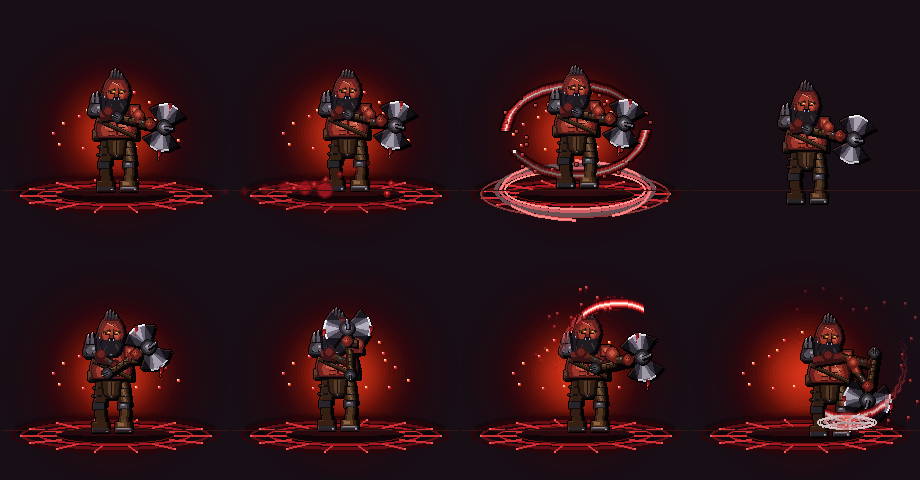
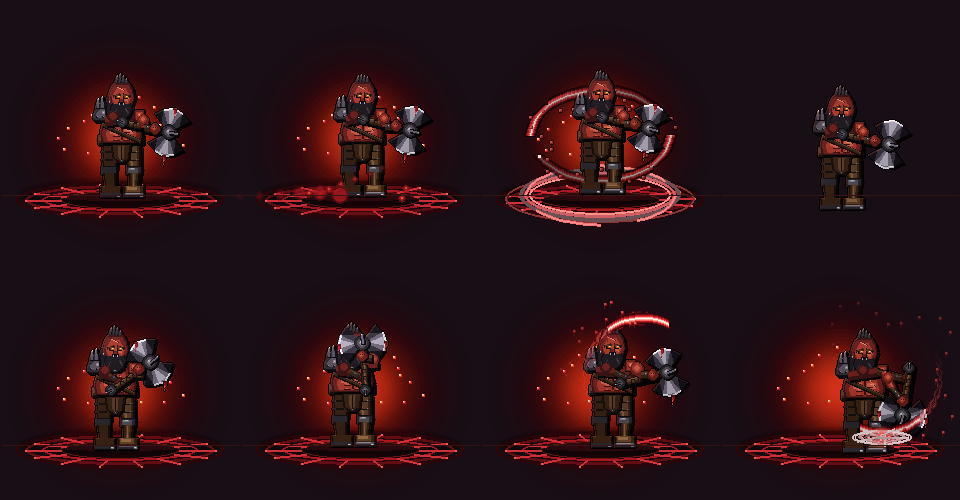
drakar: kaki polygon bervolume, tidak kurus lagi
Masalah: paha & betis pakai pygame.draw.line tipis -> terlihat kurus.

Perbaikan _draw_rig_legs:
- Paha: trapezoid tebal (TW=9 atas, KW=7 bawah) menggantikan line w=12
- Betis: trapezoid (CW=6 atas, AW=5 bawah) menggantikan line w=10
- Boot: lebar BW=9 (dari 8) + shadow offset lebih besar
- Pelindung lutut: diperlebar (17px -> dari 13px)
- Strap paha mengikuti lebar trapezoid (sw dinamis)
- Setiap segmen punya 3-4 layer warna: shadow/darkest/dark/mid/light
  → kaki terlihat bulat berotot seperti torso, bukan tiang persegi

diff --git a/bosses/level1.py b/bosses/level1.py
@@ -4297,17 +4297,13 @@ class _NS_drakar:
     # KAKI
     # ================================================================
     def _draw_rig_legs(surface, pt, f, phase, action, stride, detail):
-        """Kaki dari anchor (pinggul) — proporsi barbarian masif.
+        """Kaki dari anchor (pinggul) — POLYGON bervolume, bukan garis tipis.
+
+        Setiap segmen (paha, betis) digambar sebagai trapezoid tebal supaya
+        kaki terlihat berotot dan masif seperti torso, bukan tiang kurus.
 
         Layout vertikal (dy dari anchor):
-          Hip        : +6
-          Lutut      : +28   (paha 22px — kuat & berotot)
-          Ankle      : +46   (betis 18px)
-          Boot bawah : +56   (boot 10px — berat)
-          TOTAL      : 50px dari hip, 56px dari anchor
-
-        Torso (-4 s/d -36) = 32px | Kepala (-42 s/d -66) ≈ 24px
-        → kaki:torso:kepala ≈ 50%:29%:21% — barbarian masif, proporsional.
+          Hip   : +6    Lutut : +28    Ankle : +46    Boot : +56
         FEET_DY = 56.
         """
         P = _NS_drakar.PALETTE
@@ -4320,87 +4316,123 @@ class _NS_drakar:
 
         for side in ("back", "front"):
             is_front = (side == "front")
-
-            # Hip joint — sedikit terpisah
             hip_dx = 10 if is_front else -10
             hip_x, hip_y = pt(hip_dx, 6)
-
             swing = front_swing if is_front else back_swing
 
-            # Lutut — paha 22px
-            knee_x = int(hip_x + f * (3 if is_front else -2) + swing * 0.28)
-            knee_y = hip_y + 22
-
-            # Ankle — betis 18px
-            ankle_x = int(hip_x + f * (2 if is_front else -1) + swing * 0.48)
+            # Sendi utama
+            knee_x  = int(hip_x  + f * (3 if is_front else -2) + swing * 0.28)
+            knee_y  = hip_y  + 22
+            ankle_x = int(hip_x  + f * (2 if is_front else -1) + swing * 0.48)
             ankle_y = knee_y + 18
+            boot_x  = ankle_x
+            boot_y  = ankle_y
 
-            boot_x = ankle_x
-            boot_y = ankle_y
+            # Lebar separuh segmen (half-width)
+            TW = 9    # paha atas half-width
+            KW = 7    # paha bawah / lutut half-width
+            CW = 6    # betis atas half-width
+            AW = 5    # betis bawah / ankle half-width
 
-            # ── Paha (tebal berotot) ──
-            pygame.draw.line(surface, P["shadow_deep"],
-                             (hip_x+2, hip_y+2), (knee_x+2, knee_y+2), 13)
-            pygame.draw.line(surface, P["leather_darkest"],
-                             (hip_x, hip_y), (knee_x, knee_y), 12)
-            pygame.draw.line(surface, P["leather_dark"],
-                             (hip_x, hip_y), (knee_x, knee_y), 10)
+            # ── PAHA — trapezoid tebal ──────────────────────────────
+            # 4 titik: kiri-atas, kanan-atas, kanan-bawah, kiri-bawah
+            thigh_poly = [
+                (hip_x  - TW, hip_y  ),
+                (hip_x  + TW, hip_y  ),
+                (knee_x + KW, knee_y ),
+                (knee_x - KW, knee_y ),
+            ]
+            # Shadow offset
+            _NS_drakar._poly(surface, P["shadow_deep"],
+                             [(x+2, y+2) for x,y in thigh_poly])
+            _NS_drakar._poly(surface, P["leather_darkest"], thigh_poly)
+            # Mid tone (sedikit lebih kecil ke dalam)
+            _NS_drakar._poly(surface, P["leather_dark"], [
+                (hip_x  - TW+2, hip_y  ),
+                (hip_x  + TW-2, hip_y  ),
+                (knee_x + KW-2, knee_y ),
+                (knee_x - KW+2, knee_y ),
+            ])
             if is_front:
-                pygame.draw.line(surface, P["leather_mid"],
-                                 (hip_x, hip_y-1), (knee_x, knee_y-1), 6)
+                _NS_drakar._poly(surface, P["leather_mid"], [
+                    (hip_x  - TW+4, hip_y  ),
+                    (hip_x  + TW-4, hip_y  ),
+                    (knee_x + KW-4, knee_y ),
+                    (knee_x - KW+4, knee_y ),
+                ])
+                # Highlight sisi terang
                 pygame.draw.line(surface, P["leather_light"],
-                                 (hip_x, hip_y-2), (knee_x, knee_y-2), 2)
+                                 (hip_x - TW+5, hip_y+1),
+                                 (knee_x - KW+5, knee_y-1), 2)
 
             # Dua strap paha
             for strap_t in (0.30, 0.65):
-                sx = int(hip_x + (knee_x - hip_x) * strap_t)
-                sy = int(hip_y + (knee_y - hip_y) * strap_t)
-                pygame.draw.rect(surface, P["leather_darkest"], (sx-7, sy-1, 14, 2))
+                sx = int(hip_x  + (knee_x  - hip_x)  * strap_t)
+                sy = int(hip_y  + (knee_y  - hip_y)  * strap_t)
+                sw = int(TW + (KW - TW) * strap_t) + 1
+                pygame.draw.rect(surface, P["leather_darkest"], (sx-sw, sy-1, sw*2, 2))
                 if is_front:
-                    pygame.draw.rect(surface, P["leather_mid"], (sx-6, sy-1, 12, 1))
-                for stud_x in (sx-4, sx+3):
+                    pygame.draw.rect(surface, P["leather_mid"],  (sx-sw+1, sy-1, sw*2-2, 1))
+                for stud_x in (sx - sw + 2, sx + sw - 4):
                     pygame.draw.rect(surface, P["armor_dark"],  (stud_x, sy-1, 2, 2))
                     if is_front:
                         pygame.draw.rect(surface, P["armor_light"], (stud_x, sy-1, 1, 1))
 
-            # ── Pelindung lutut ──
-            pygame.draw.rect(surface, P["shadow_deep"],   (knee_x-6, knee_y-2, 13, 8))
-            pygame.draw.rect(surface, P["armor_darkest"], (knee_x-6, knee_y-2, 12, 8))
-            pygame.draw.rect(surface, P["armor_dark"],    (knee_x-5, knee_y-1, 10, 6))
+            # ── PELINDUNG LUTUT ──────────────────────────────────────
+            pygame.draw.rect(surface, P["shadow_deep"],   (knee_x-8,  knee_y-2, 17, 9))
+            pygame.draw.rect(surface, P["armor_darkest"], (knee_x-8,  knee_y-2, 16, 9))
+            pygame.draw.rect(surface, P["armor_dark"],    (knee_x-7,  knee_y-1, 14, 7))
             if is_front:
-                pygame.draw.rect(surface, P["armor_mid"], (knee_x-4, knee_y,    7, 4))
-                pygame.draw.rect(surface, P["armor_light"],(knee_x-3, knee_y,   4, 2))
-                pygame.draw.rect(surface, P["armor_shine"],(knee_x-2, knee_y,   2, 1))
+                pygame.draw.rect(surface, P["armor_mid"], (knee_x-6,  knee_y,   10, 5))
+                pygame.draw.rect(surface, P["armor_light"],(knee_x-5, knee_y,    6, 2))
+                pygame.draw.rect(surface, P["armor_shine"],(knee_x-3, knee_y,    3, 1))
 
-            # ── Betis ──
-            pygame.draw.line(surface, P["shadow_deep"],
-                             (knee_x+2, knee_y+6), (ankle_x+2, ankle_y+2), 11)
-            pygame.draw.line(surface, P["leather_darkest"],
-                             (knee_x, knee_y+6), (ankle_x, ankle_y), 10)
-            pygame.draw.line(surface, P["leather_dark"],
-                             (knee_x, knee_y+6), (ankle_x, ankle_y), 8)
+            # ── BETIS — trapezoid ────────────────────────────────────
+            calf_poly = [
+                (knee_x  - CW, knee_y  + 5),
+                (knee_x  + CW, knee_y  + 5),
+                (ankle_x + AW, ankle_y    ),
+                (ankle_x - AW, ankle_y    ),
+            ]
+            _NS_drakar._poly(surface, P["shadow_deep"],
+                             [(x+2, y+2) for x,y in calf_poly])
+            _NS_drakar._poly(surface, P["leather_darkest"], calf_poly)
+            _NS_drakar._poly(surface, P["leather_dark"], [
+                (knee_x  - CW+2, knee_y  + 5),
+                (knee_x  + CW-2, knee_y  + 5),
+                (ankle_x + AW-2, ankle_y    ),
+                (ankle_x - AW+2, ankle_y    ),
+            ])
             if is_front:
-                pygame.draw.line(surface, P["leather_mid"],
-                                 (knee_x, knee_y+5), (ankle_x, ankle_y-1), 5)
+                _NS_drakar._poly(surface, P["leather_mid"], [
+                    (knee_x  - CW+4, knee_y  + 5),
+                    (knee_x  + CW-4, knee_y  + 5),
+                    (ankle_x + AW-4, ankle_y    ),
+                    (ankle_x - AW+4, ankle_y    ),
+                ])
+                pygame.draw.line(surface, P["leather_light"],
+                                 (knee_x - CW+5, knee_y + 6),
+                                 (ankle_x - AW+5, ankle_y - 1), 1)
 
-            # ── Boot berat ──
-            pygame.draw.rect(surface, P["shadow_deep"],       (boot_x-8, boot_y, 18, 11))
-            pygame.draw.rect(surface, P["leather_darkest"],   (boot_x-8, boot_y, 17, 10))
-            pygame.draw.rect(surface, P["leather_dark"],      (boot_x-7, boot_y, 14,  9))
+            # ── BOOT BERAT ──────────────────────────────────────────
+            BW = 9   # half-width boot
+            pygame.draw.rect(surface, P["shadow_deep"],     (boot_x-BW-1, boot_y, BW*2+4, 12))
+            pygame.draw.rect(surface, P["leather_darkest"], (boot_x-BW,   boot_y, BW*2+2, 11))
+            pygame.draw.rect(surface, P["leather_dark"],    (boot_x-BW+1, boot_y, BW*2,   10))
             if is_front:
-                pygame.draw.rect(surface, P["leather_mid"],   (boot_x-6, boot_y, 10,  5))
-                pygame.draw.rect(surface, P["leather_light"], (boot_x-5, boot_y+1, 6,  3))
-            # Pelat logam
-            pygame.draw.rect(surface, P["armor_darkest"],     (boot_x-8, boot_y+6, 18, 5))
-            pygame.draw.rect(surface, P["armor_dark"],        (boot_x-8, boot_y+6, 17, 4))
+                pygame.draw.rect(surface, P["leather_mid"],   (boot_x-BW+2, boot_y, BW*2-4,  6))
+                pygame.draw.rect(surface, P["leather_light"], (boot_x-BW+3, boot_y+1, BW*2-8, 3))
+            # Pelat logam boot
+            pygame.draw.rect(surface, P["armor_darkest"],   (boot_x-BW-1, boot_y+7, BW*2+4, 5))
+            pygame.draw.rect(surface, P["armor_dark"],      (boot_x-BW,   boot_y+7, BW*2+2, 4))
             if is_front:
-                pygame.draw.rect(surface, P["armor_mid"],     (boot_x-7, boot_y+6, 15, 2))
-                pygame.draw.rect(surface, P["armor_light"],   (boot_x-6, boot_y+6, 12, 1))
+                pygame.draw.rect(surface, P["armor_mid"],   (boot_x-BW+1, boot_y+7, BW*2,   2))
+                pygame.draw.rect(surface, P["armor_light"], (boot_x-BW+2, boot_y+7, BW*2-4, 1))
             # Ujung boot
             pygame.draw.rect(surface, P["armor_light"],
-                             (boot_x + f*6, boot_y+8, 2, 2))
+                             (boot_x + f*(BW-2), boot_y+9, 3, 2))
             pygame.draw.rect(surface, P["armor_shine"],
-                             (boot_x + f*6, boot_y+8, 1, 1))
+                             (boot_x + f*(BW-2), boot_y+9, 2, 1))
 
     # ================================================================
     # PINGGANG
